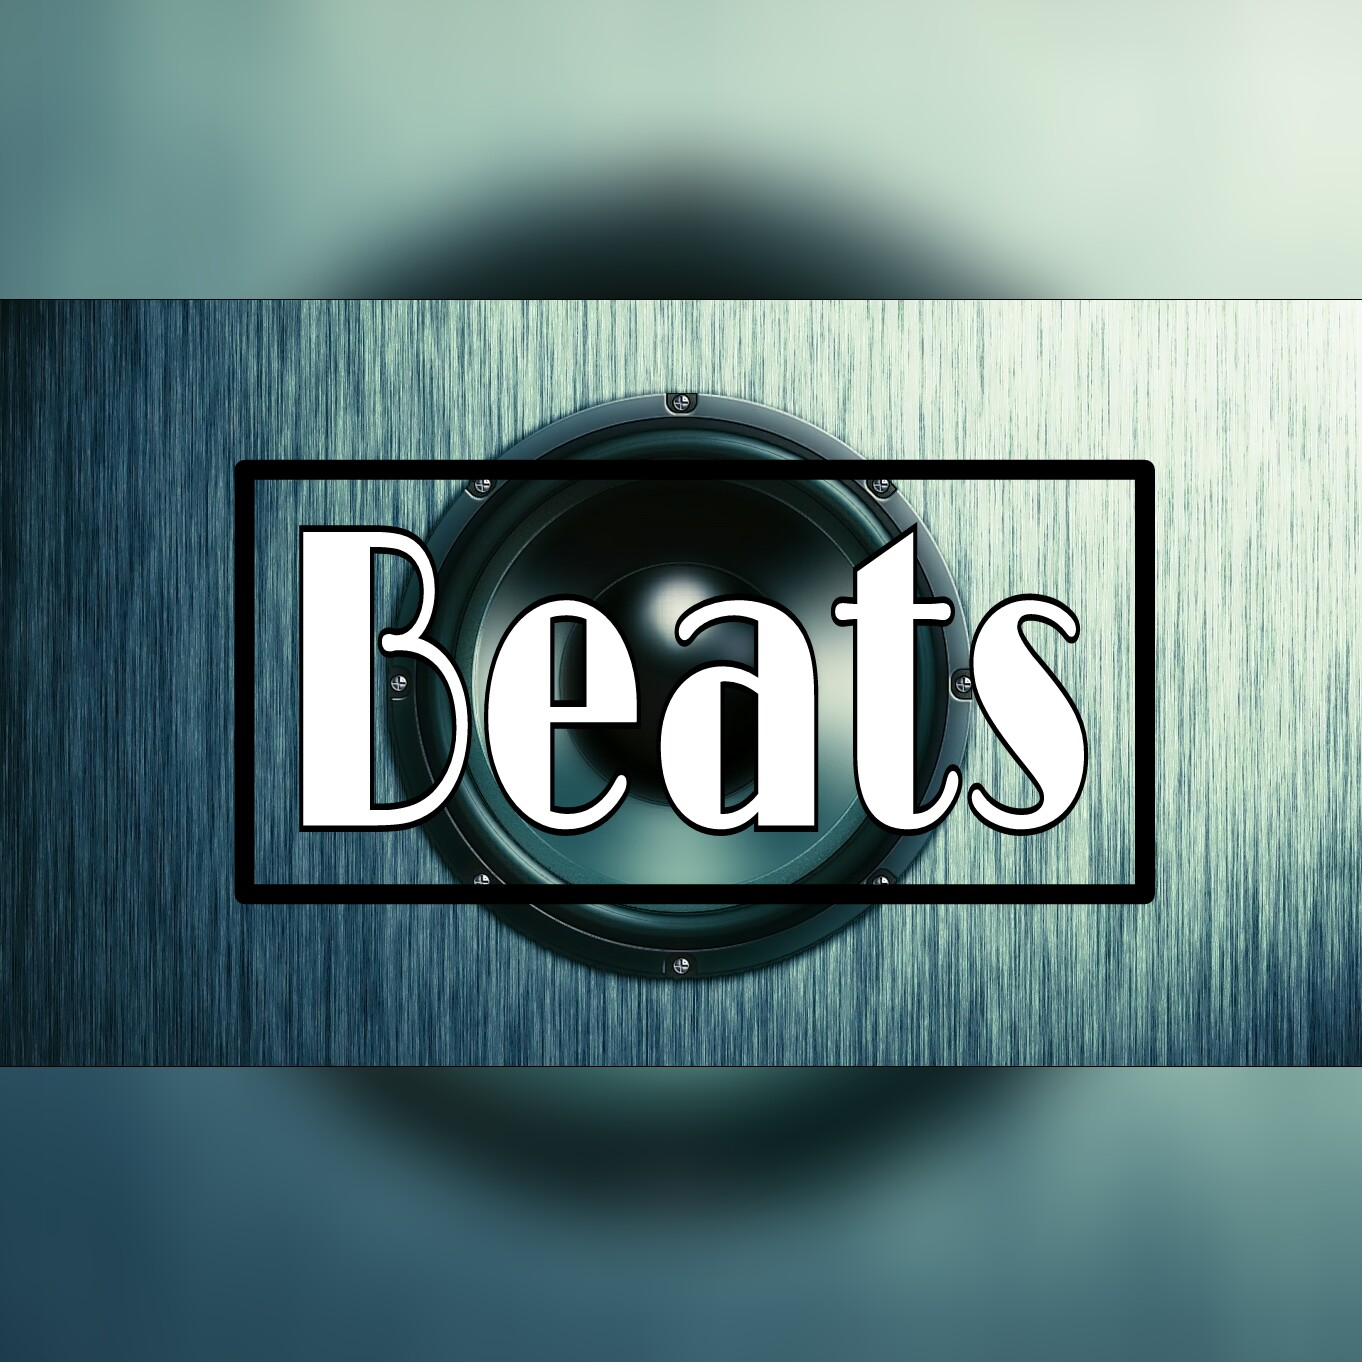
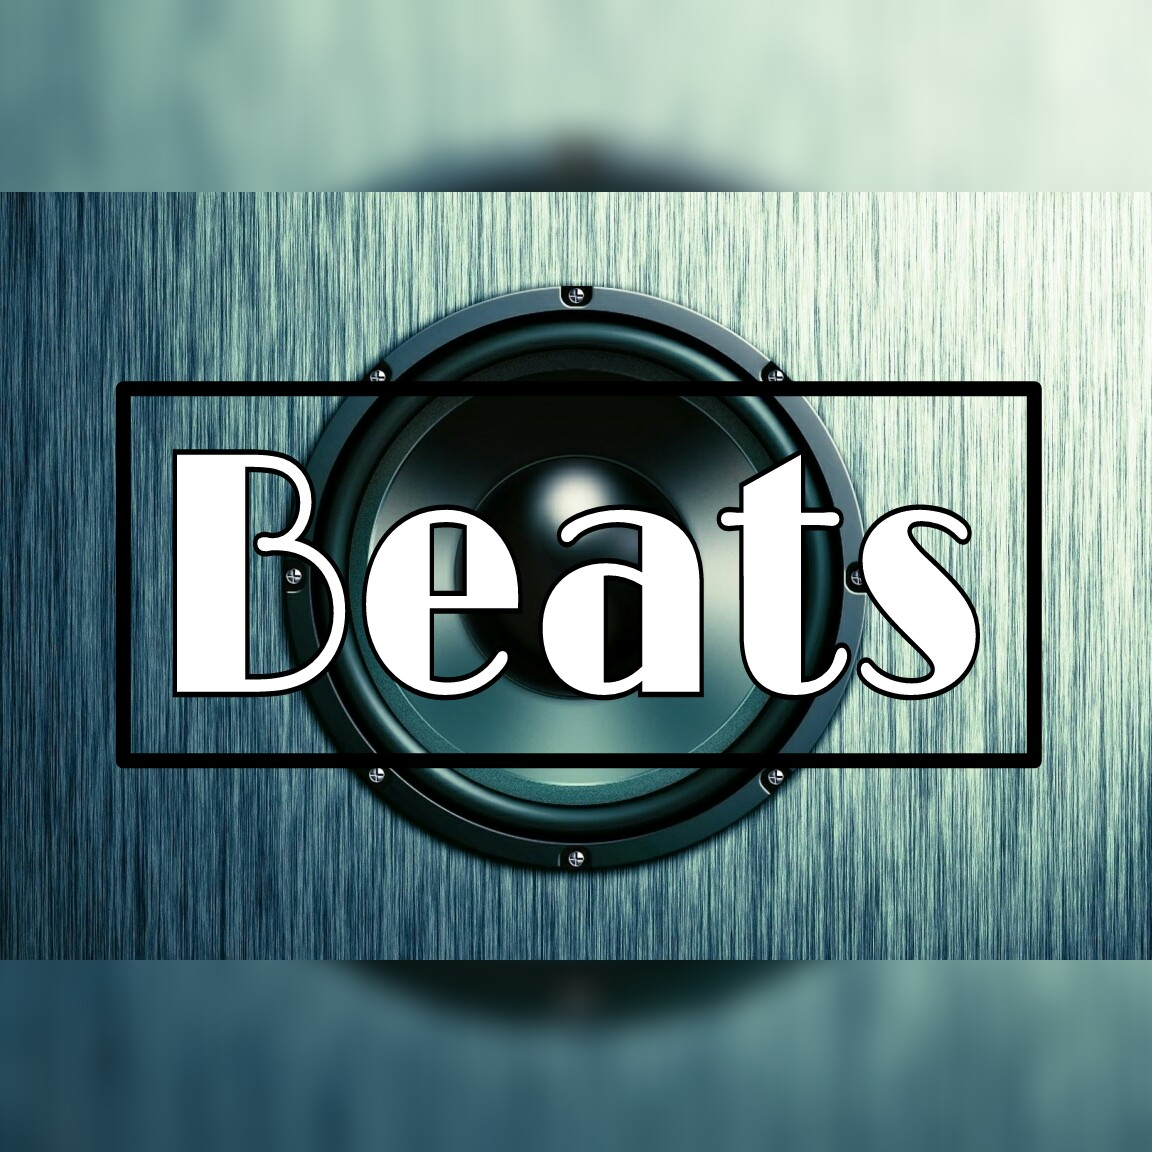
Few css changes for fonts, new image for latest channel, html audi events

diff --git a/www/js/vibes/channels/AudioService.js b/www/js/vibes/channels/AudioService.js
@@ -4,9 +4,9 @@
     angular.module('vibes')
         .factory('AudioService', AudioService);
 
-    AudioService.$inject = ['$rootScope'];
+    AudioService.$inject = ['$rootScope', '$log'];
 
-    function AudioService($rootScope) {
+    function AudioService($rootScope, $log) {
         var service = {
             play: play,
             pause: pause
@@ -14,19 +14,62 @@
 
         return service;
 
-        function play() {
+        function playchannel() {
+            $rootScope.playing = true;
             if (typeof $rootScope.audio !== 'undefined') {
                 $rootScope.audio.src = $rootScope.curChannel.url;
             } else {
                 $rootScope.audio = new Audio($rootScope.curChannel.url);
+
+            	//
+            	// Create event listeners for Html audio events.
+            	//
+            	$rootScope.audio.addEventListener("pause", function() {
+                    //$rootScope.audio.removeEventListener("pause", null, true);
+            	    //$log.error("stream is paused");
+            	    $rootScope.playing = false;
+            	    $rootScope.audio.src = "";
+            	    $rootScope.audio.load();
+            	}, true);
+
+                $rootScope.audio.addEventListener("play", function() {
+                    //$rootScope.audio.removeEventListener("play", null, true);
+            	    //$log.error("stream ready to play");
+                    if ($rootScope.playing == false) {
+            	        playchannel();
+                    }
+                }, true);
+
+            	//$rootScope.audio.addEventListener("error", function() {
+            	//    alert('stream encountered error');
+            	//}, false);
+
+           	//$rootScope.audio.addEventListener("playing", function() {
+            	//    alert('stream is playing');
+            	//}, false);
+
+            	//$rootScope.audio.addEventListener("waiting", function() {
+            	//    alert('stream is waiting');
+            	//}, false);
+
+            	//$rootScope.audio.addEventListener("stalled", function() {
+            	//    alert('stream is stalled');
+            	//}, false);
+
+            	//$rootScope.audio.addEventListener("suspend", function() {
+            	//    alert('stream is suspended');
+            	//}, false);
             }
             $rootScope.audio.play();
-            $rootScope.playing = true;
+        }
+
+        function play() {
+            playchannel();
         }
 
         function pause() {
             $rootScope.audio.pause();
             $rootScope.playing = false;
-        }
+        } 
     }
 })();

diff --git a/www/js/vibes/channels/ChannelsService.js b/www/js/vibes/channels/ChannelsService.js
@@ -8,7 +8,7 @@
         var channels = [{
             id: 0,
             name: 'station1',
-            cname: 'Hits',
+            cname: 'HITS',
             sprovider: 'vibes',
             face: 'img/hits.jpg',
             url: 'http://104.131.151.101:8000/station1',
@@ -17,25 +17,25 @@
         }, {
             id: 1,
             name: 'station2',
-            cname: 'Love',
+            cname: 'LATEST',
             sprovider: 'vibes',
-            face: 'img/love.jpg',
+            face: 'img/latest.jpg',
             url: 'http://104.131.151.101:8000/station2',
             radioUuid: '',
             apiKey: ''
         }, {
             id: 2,
             name: 'station3',
-            cname: 'Chill',
+            cname: 'BEATS',
             sprovider: 'vibes',
-            face: 'img/chill.jpg',
+            face: 'img/beats.jpg',
             url: 'http://104.131.151.101:8000/station3',
             radioUuid: '',
             apiKey: ''
         }, {
             id: 3,
             name: 'station4',
-            cname: 'Melodies',
+            cname: 'MELODIES',
             sprovider: 'vibes',
             face: 'img/melodies.jpg',
             url: 'http://104.131.151.101:8000/station4',
@@ -44,7 +44,7 @@
         }, {
             id: 4,
             name: 'station5',
-            cname: 'Party',
+            cname: 'LOVE',
             sprovider: 'vibes',
             face: 'img/party.jpg',
             url: 'http://104.131.151.101:8000/station4',
@@ -53,10 +53,10 @@
         }, {
             id: 5,
             name: 'station6',
-            cname: 'Beats',
+            cname: 'COMEDY',
             sprovider: 'vibes',
             face: 'img/beats.jpg',
-            url: 'http://104.131.151.101:8000/station4',
+            url: 'http://104.131.151.101:8000/station6',
             radioUuid: '',
             apiKey: ''
         }];

diff --git a/www/css/vibes.css b/www/css/vibes.css
@@ -16,8 +16,8 @@
     color: #71c0b3;
 }
 .normal-song-info {
-    font-weight: bold;
-    font-size: 11pt;
+    #font-weight: bold;
+    font-size: 11px;
     font-style: normal;
     font-family: "Palatino Linotype", "Book Antiqua", Palatino, serif;
     color: #50514F;
@@ -26,7 +26,7 @@
 }
 
 .blue-song-info {
-    font-weight: bold;
+    #font-weight: bold;
     font-size: 11pt;
     font-style: normal;
     font-family: "Palatino Linotype", "Book Antiqua", Palatino, serif;
@@ -161,21 +161,17 @@ ion-tabs.tabs-color-active-positive .tab-item.tab-item-active, ion-tabs.tabs-col
     margin-right: 5px;
 }
 
-h1, h2, h3, h4, h5, h6, .h1, .h2, .h3, .h4, .h5, .h6 {
-    #color: darkblue;
-    font-weight: bold;
+h, h1, h2, h3, h4, h5, h6, .h, .h1, .h2, .h3, .h4, .h5, .h6 {
     font-family: "Palatino Linotype", "Book Antiqua", Palatino, serif;
     line-height: 0.5;
 }
 
 p, p1, p2, p3, p4, p5, p6, .p, .p1, .p2, .p3, .p4, .p5, .p6 {
-    #color: darkblue;
-    font-weight: bold;
     font-family: "Palatino Linotype", "Book Antiqua", Palatino, serif;
     line-height: 1.2;
 }
 .center-content {
-    padding: 2px;
+    #padding: 2px;
 }
 
 .channel-face {
@@ -238,7 +234,7 @@ p, p1, p2, p3, p4, p5, p6, .p, .p1, .p2, .p3, .p4, .p5, .p6 {
 }
 
 .settings-content .item-content {
-    color: blueviolet;
+    color: #444444;
 }
 
 
@@ -319,15 +315,9 @@ p, p1, p2, p3, p4, p5, p6, .p, .p1, .p2, .p3, .p4, .p5, .p6 {
 .music-footer .track, .music-footer .artist{
     float: center;
     #width: 80%;
-    margin: 0;
     font-size: 12px;
-    color: #ffffff
-}
-
-.music-footer .track{
-    margin: 0;
-    #font-weight: bold;
     font-family: "Palatino Linotype", "Book Antiqua", Palatino, serif;
+    color: #ffffff;
 }
 
 .music-footer .channel-face{

diff --git a/www/js/vibes/channels/tab-channels.html b/www/js/vibes/channels/tab-channels.html
@@ -1,4 +1,4 @@
-<ion-view view-title="vibes" class="vibes-page">
+<ion-view view-title="VIBES" class="vibes-page">
     <ion-content>
         <ion-list>
             <div ng-repeat="channel in channelsCtrl.channels" ng-if="$index % 2 == 0" class="row">
